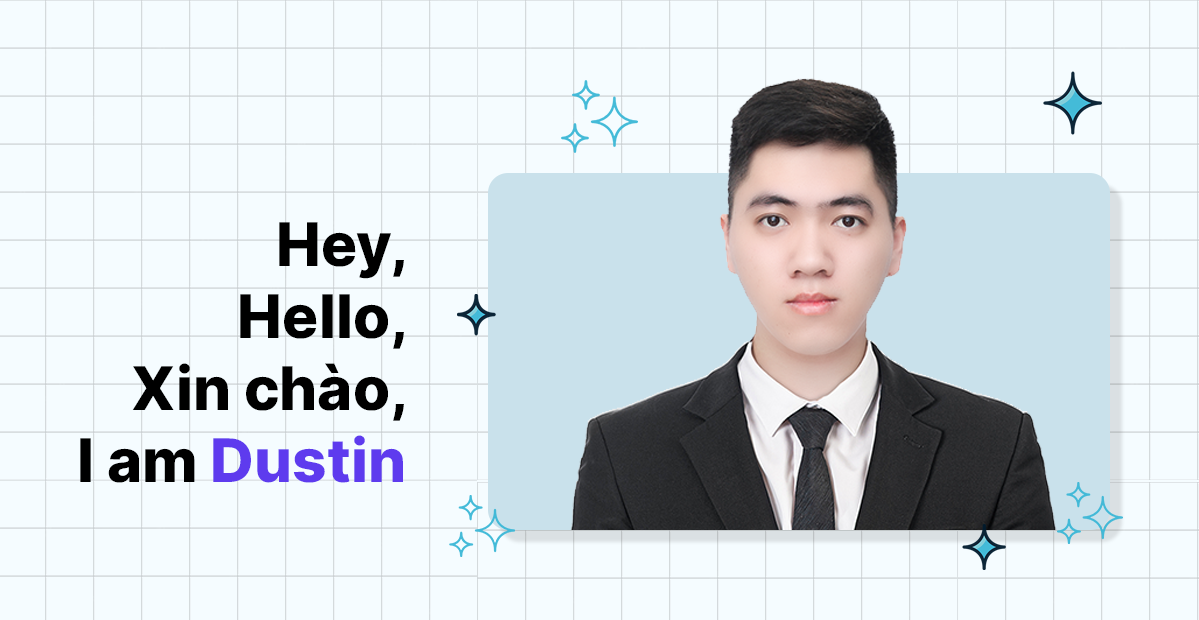
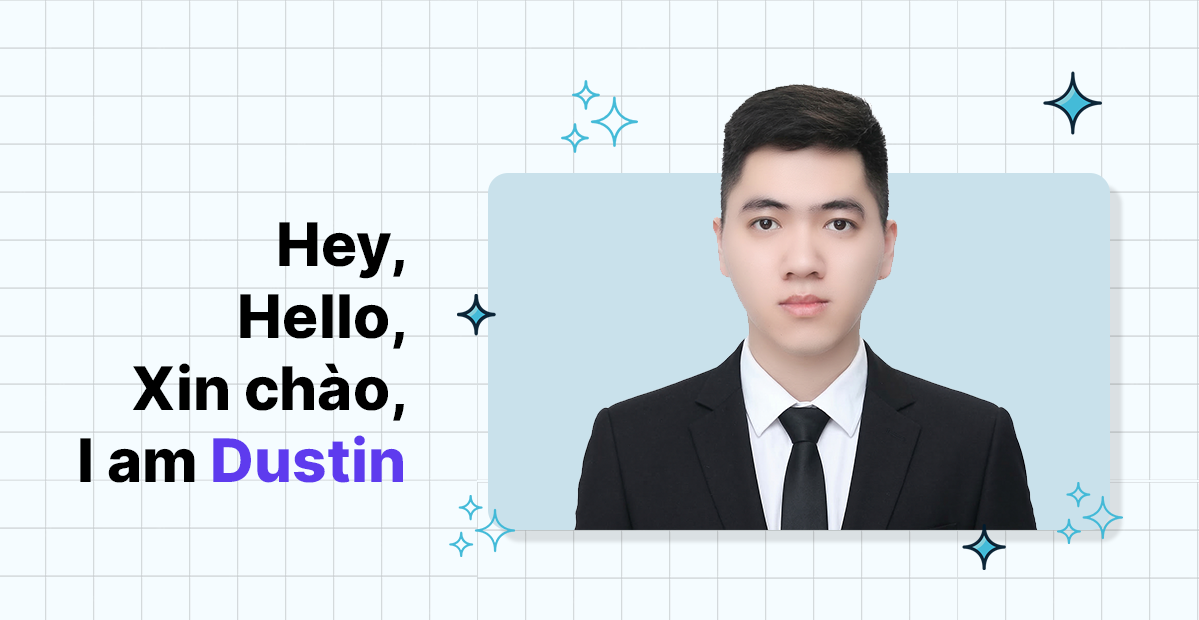
change picture

diff --git a/components/CertAdp.tsx b/components/CertAdp.tsx
@@ -219,11 +219,19 @@ export const CertAdp: React.FC = () => {
             <div class="text-center mt-5">
                 <h3 class="text-primary mb-4">Chế độ Luyện tập</h3>
                 <p class="mb-4">Chọn số lượng câu hỏi ngẫu nhiên:</p>
-                <div>
+                
+                <div class="mb-4">
                    <button class="btn-practice-choice" onclick="window.startPractice(5)">5 câu</button>
                    <button class="btn-practice-choice" onclick="window.startPractice(10)">10 câu</button>
-                   <button class="btn-practice-choice" onclick="window.startPractice(15)">15 câu</button>
+                   <button class="btn-practice-choice" onclick="window.startPractice(${allQuestions.length})">All in one</button>
                 </div>
+                
+                <div class="d-flex justify-content-center align-items-center mb-4">
+                    <span class="me-2 text-muted" style="font-size:14px">Hoặc nhập số lượng:</span>
+                    <input type="number" id="customCount" class="form-control form-control-sm text-center" style="width: 80px;" value="20" min="1">
+                    <button class="btn btn-sm btn-primary ms-2" onclick="window.startCustomPractice()">Bắt đầu</button>
+                </div>
+                
                 <div class="mt-5">
                     <button class="btn btn-link text-secondary text-decoration-none" style="font-size: 12px;" onclick="window.location.href=window.location.pathname">← Quay về danh sách</button>
                 </div>
@@ -245,6 +253,15 @@ export const CertAdp: React.FC = () => {
         
         setupPracticeHeader();
         renderPracticeQuestion();
+    };
+
+    (window as any).startCustomPractice = () => {
+        const input = document.getElementById('customCount') as HTMLInputElement;
+        if (!input) return;
+        let val = parseInt(input.value);
+        if(!val || val < 1) val = 10; 
+        if(val > allQuestions.length) val = allQuestions.length;
+        (window as any).startPractice(val);
     };
 
     (window as any).togglePracticeExp = () => {
@@ -400,6 +417,7 @@ export const CertAdp: React.FC = () => {
         delete (window as any).clearInput;
         
         delete (window as any).startPractice;
+        delete (window as any).startCustomPractice;
         delete (window as any).checkPracticeAnswer;
         delete (window as any).nextPracticeQuestion;
         delete (window as any).togglePracticeExp;
